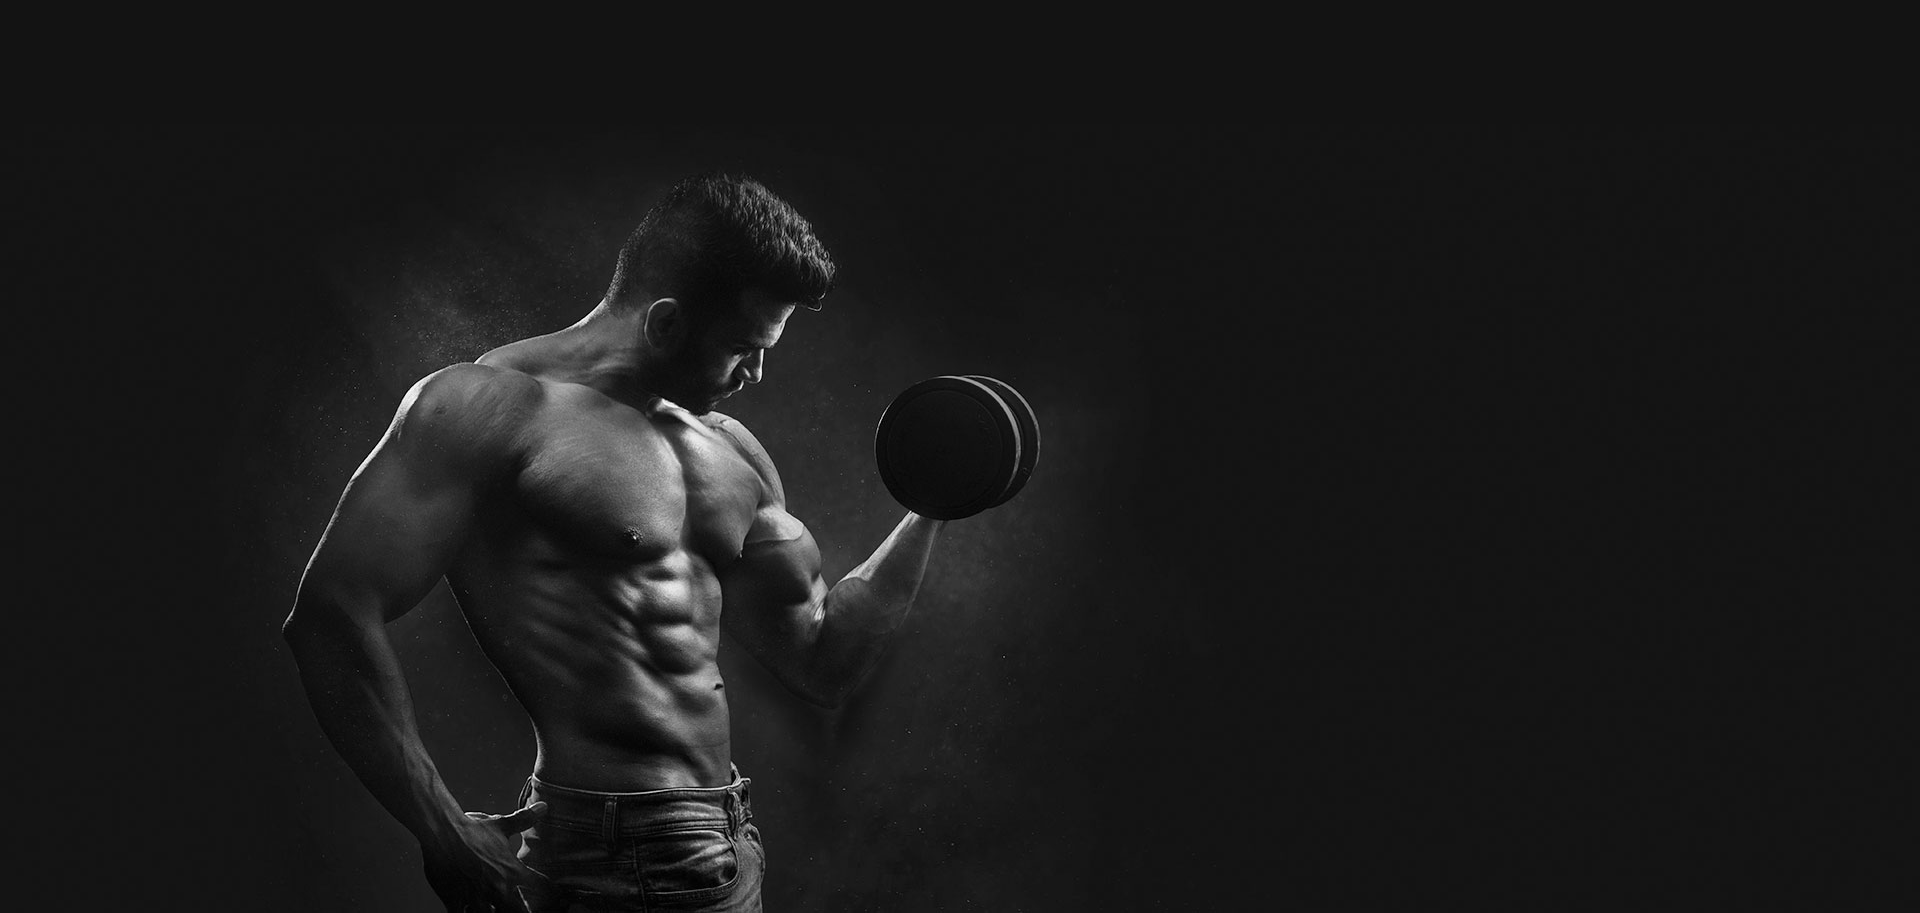
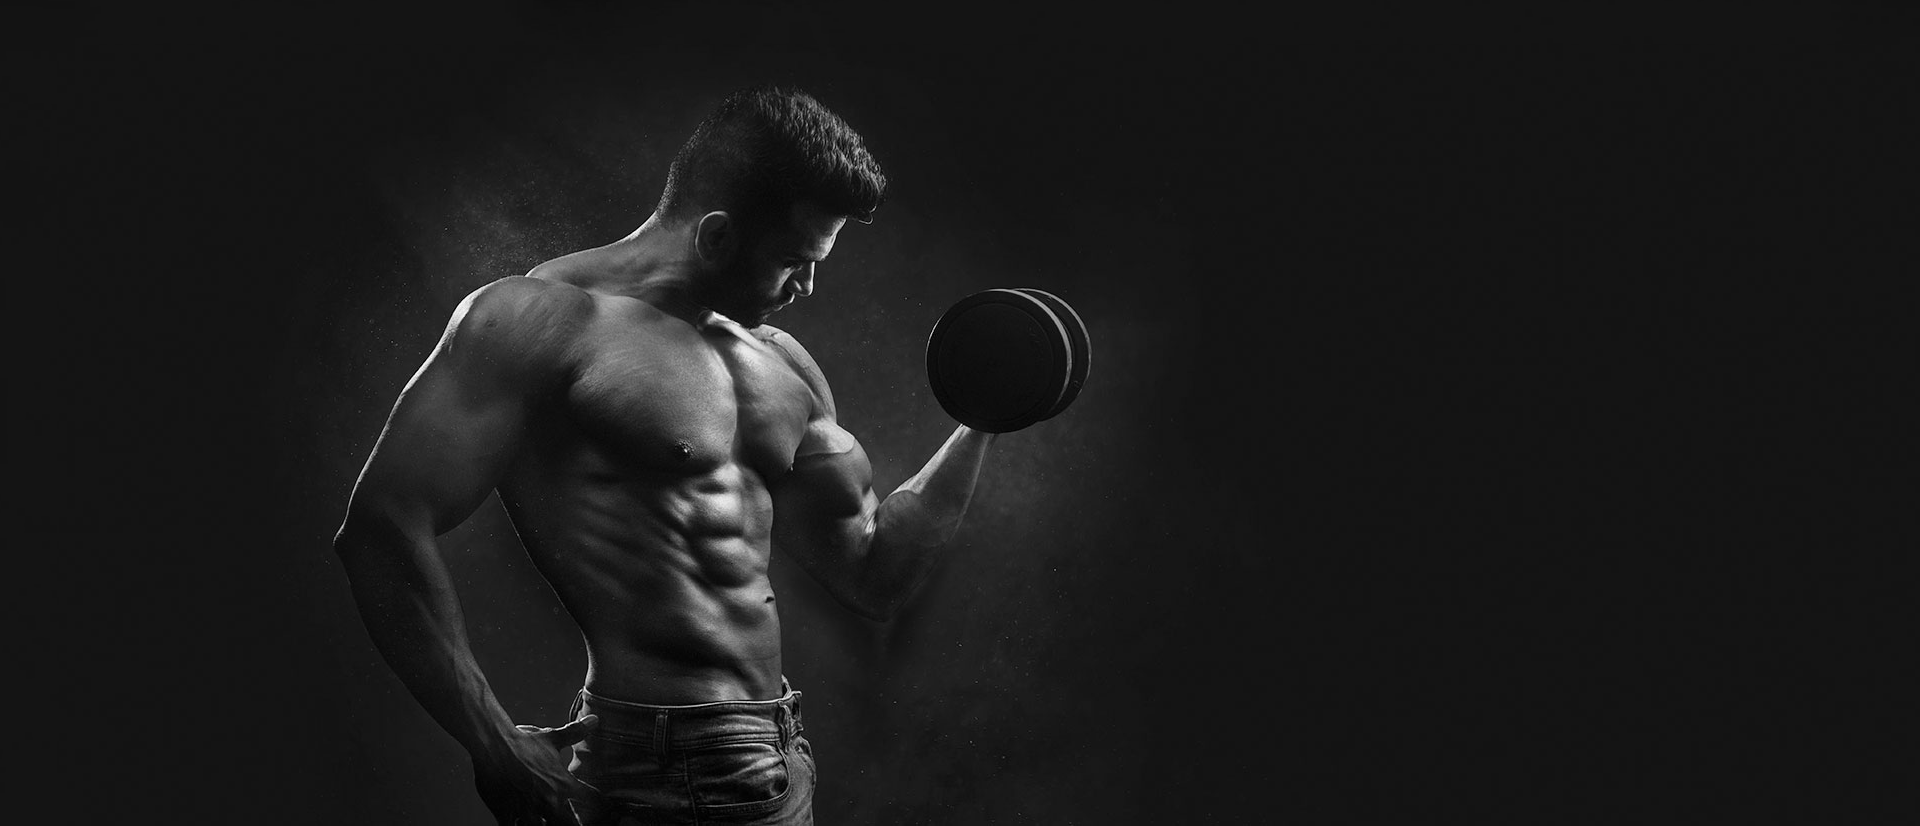
add lib swiper

Changed region(s): [[0.1875, 0.1211, 0.5625, 1.0], [0.1562, 0.5751, 0.1875, 0.6356]]

diff --git a/src/app/components/Header.tsx b/src/app/components/Header.tsx
@@ -1,28 +1,16 @@
 'use client';
 
-import React, { useEffect, useState } from 'react';
+import React, { useState } from 'react';
 import MobileNav from './MobileNav';
 import DesktopNav from './DesktopNav';
 import Image from 'next/image';
 import { Link as ScrollLink } from 'react-scroll';
 import clsx from 'clsx';
 import { MdClose, MdMenu } from 'react-icons/md';
+import { CgProfile } from 'react-icons/cg';
 
 const Header = () => {
-  const [isActiveHeader, setIsActiveHeader] = useState(false);
   const [isOpenMobileNav, setIsOpenMobileNav] = useState(false);
-
-  useEffect(() => {
-    const handleScroll = () => {
-      setIsActiveHeader(window.scrollY > 50);
-    };
-
-    window.addEventListener('scroll', handleScroll);
-
-    return () => {
-      window.removeEventListener('scroll', handleScroll);
-    };
-  }, []);
 
   const handleCloseMobileNav = () => {
     setIsOpenMobileNav(!isOpenMobileNav);
@@ -31,8 +19,7 @@ const Header = () => {
   return (
     <header
       className={clsx(
-        isActiveHeader ? 'h-[100px]' : 'h-[124px]',
-        'fixed top-0 w-full max-w-[1920px] transition-all duration-100 z-50 bg-primary-200',
+        'fixed top-0 h-[100px] w-full max-w-[1920px] transition-all duration-100 z-50 bg-primary-200',
       )}
     >
       <div className="container mx-auto h-full flex items-center justify-between bg-primary-200">
@@ -54,10 +41,9 @@ const Header = () => {
 
         <MobileNav
           containerStyles={clsx(
-            isActiveHeader ? 'top-[100px]' : 'top-[124px]',
             isOpenMobileNav
-              ? 'top-0 p-4 border-t border-white/10'
-              : 'top-[-200%] pt-0 pb-0 border-white/0 overflow-hidden',
+              ? 'top-[100px] p-4 border-t border-white/10'
+              : 'top-[calc(-100%-100px)] pt-0 pb-0 border-white/0 overflow-hidden',
             'xl:hidden absolute left-0 w-full flex flex-col items-center justify-center text-center bg-primary-200 transition-all duration-500 z-[-10]',
           )}
           onClose={handleCloseMobileNav}
@@ -66,17 +52,8 @@ const Header = () => {
         <DesktopNav containerStyles="items-center gap-4 hidden xl:flex" />
         <div className="flex items-center gap-4 text-white">
           <div className="flex items-center gap-4 text-base font-medium ">
-            <button
-              type="button"
-              className="uppercase hover:text-accent transition-all duration-500"
-            >
-              Login
-            </button>
-            <button
-              type="button"
-              className="uppercase hover:text-accent transition-all duration-500"
-            >
-              Register
+            <button type="button" className="text-4xl">
+              <CgProfile />
             </button>
           </div>
           <button

diff --git a/src/app/components/Hero.tsx b/src/app/components/Hero.tsx
@@ -3,10 +3,12 @@ import React from 'react';
 const Hero = () => {
   return (
     <section
-      className="h-[calc(100vh-124px)] bg-blue-300 flex flex-col items-center justify-center mt-[124px]"
+      className="h-[calc(100vh-100px)] bg-hero bg-cover bg-no-repeat bg-center flex flex-col items-center justify-center mt-[100px]"
       id="hero"
     >
-      <h2 className="h1">Hero</h2>
+      <div className="container mx-auto">
+        <h2 className="text-white">Slider</h2>
+      </div>
     </section>
   );
 };

diff --git a/tailwind.config.ts b/tailwind.config.ts
@@ -13,6 +13,7 @@ export default {
     },
 
     screens: {
+      xs: '320px',
       sm: '640px',
       md: '768px',
       lg: '1024px',
@@ -25,8 +26,8 @@ export default {
     },
 
     backgroundImage: {
-      hero: 'url(./public/assets/img/hero/bg.png)',
-      membership: 'url(./public/assets/img/membership/bg.jpg)',
+      hero: 'url(../../public/assets/img/hero/bg.png) ',
+      membership: 'url(../../public/assets/img/membership/bg.jpg)',
     },
 
     extend: {

diff --git a/src/app/components/DesktopNav.tsx b/src/app/components/DesktopNav.tsx
@@ -4,7 +4,7 @@ import React from 'react';
 import { Link as ScrollLink } from 'react-scroll';
 
 const links = [
-  { name: 'home', target: 'hero', offset: -124 },
+  { name: 'home', target: 'hero', offset: -100 },
   { name: 'about us', target: 'about', offset: -100 },
   { name: 'class', target: 'classes', offset: -100 },
   { name: 'team', target: 'team', offset: -100 },

diff --git a/src/app/components/MobileNav.tsx b/src/app/components/MobileNav.tsx
@@ -4,7 +4,7 @@ import React from 'react';
 import { Link as ScrollLink } from 'react-scroll';
 
 const links = [
-  { name: 'home', target: 'hero', offset: -124 },
+  { name: 'home', target: 'hero', offset: -100 },
   { name: 'about us', target: 'about', offset: -100 },
   { name: 'class', target: 'classes', offset: -100 },
   { name: 'team', target: 'team', offset: -100 },

diff --git a/src/app/components/Membership.tsx b/src/app/components/Membership.tsx
@@ -6,7 +6,7 @@ const Membership = () => {
       className="h-[calc(100vh-100px)] bg-pink-300 flex flex-col items-center justify-center"
       id="membership"
     >
-      <h2 className="h1">Membership</h2>
+      <h2 className="h2">Membership</h2>
     </section>
   );
 };

diff --git a/src/app/components/Testimonials.tsx b/src/app/components/Testimonials.tsx
@@ -6,7 +6,7 @@ const Testimonials = () => {
       className="h-[50vh] bg-teal-300 flex flex-col items-center justify-center"
       id="testimonials"
     >
-      <h2 className="h1">Testimonials</h2>
+      <h2 className="h2">Testimonials</h2>
     </section>
   );
 };

diff --git a/src/app/page.tsx b/src/app/page.tsx
@@ -9,7 +9,7 @@ import Testimonials from './components/Testimonials';
 
 export default function Home() {
   return (
-    <main>
+    <main className="w-full">
       <Hero />
       <About />
       <Classes />

diff --git a/src/app/globals.css b/src/app/globals.css
@@ -3,7 +3,9 @@
 @tailwind utilities;
 
 @layer base {
-  * {
+  *,
+  *::after,
+  *::before {
     box-sizing: border-box;
     padding: 0;
     margin: 0;

diff --git a/src/app/components/HeroSlider.tsx b/src/app/components/HeroSlider.tsx
@@ -1,0 +1,7 @@
+import React from 'react';
+
+const HeroSlider = () => {
+  return <div>HeroSlider</div>;
+};
+
+export default HeroSlider;
